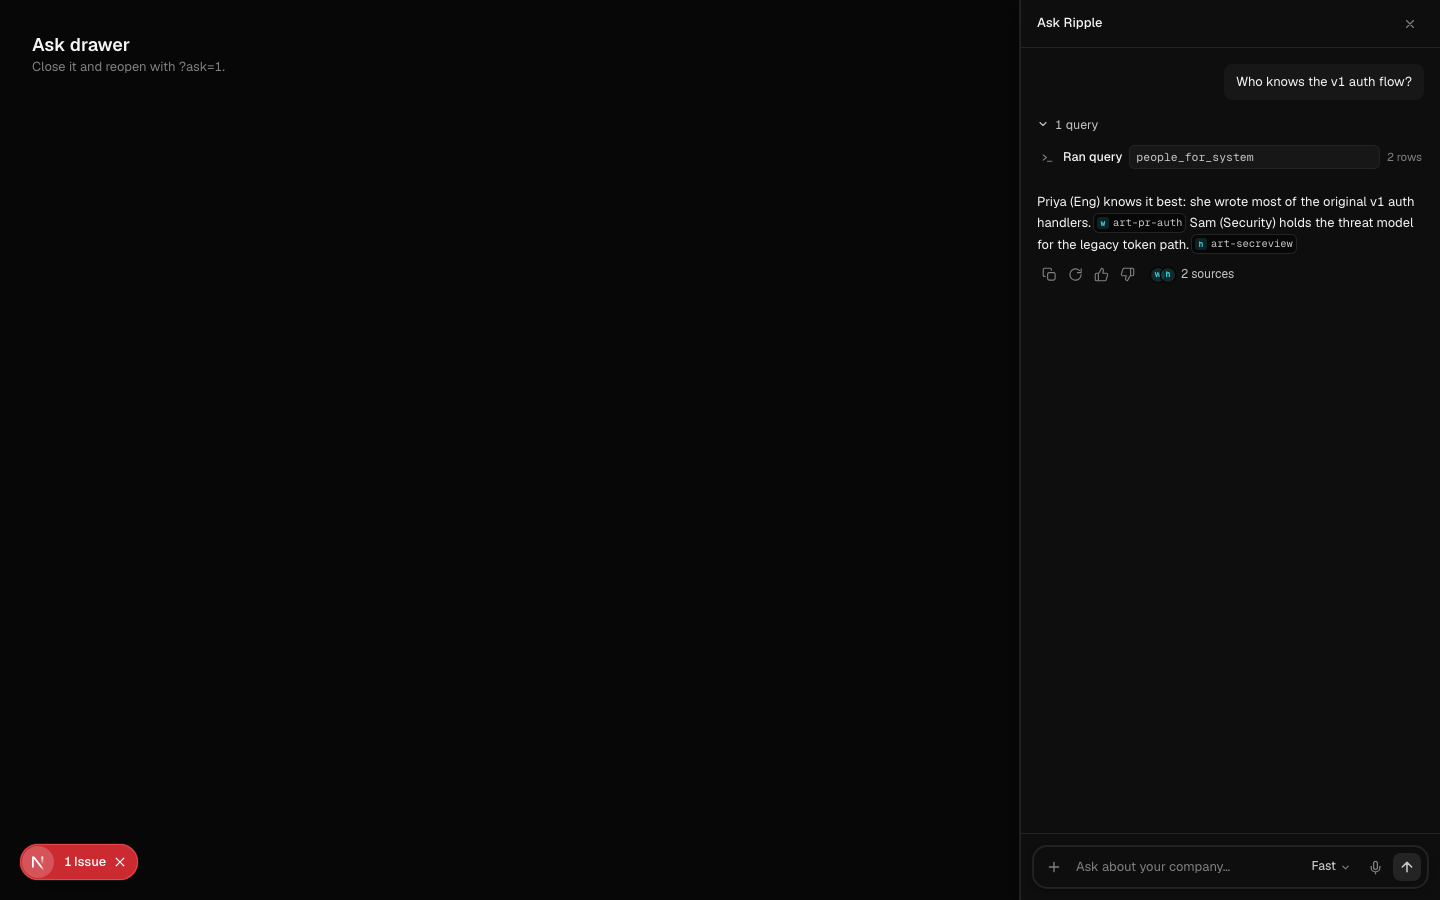
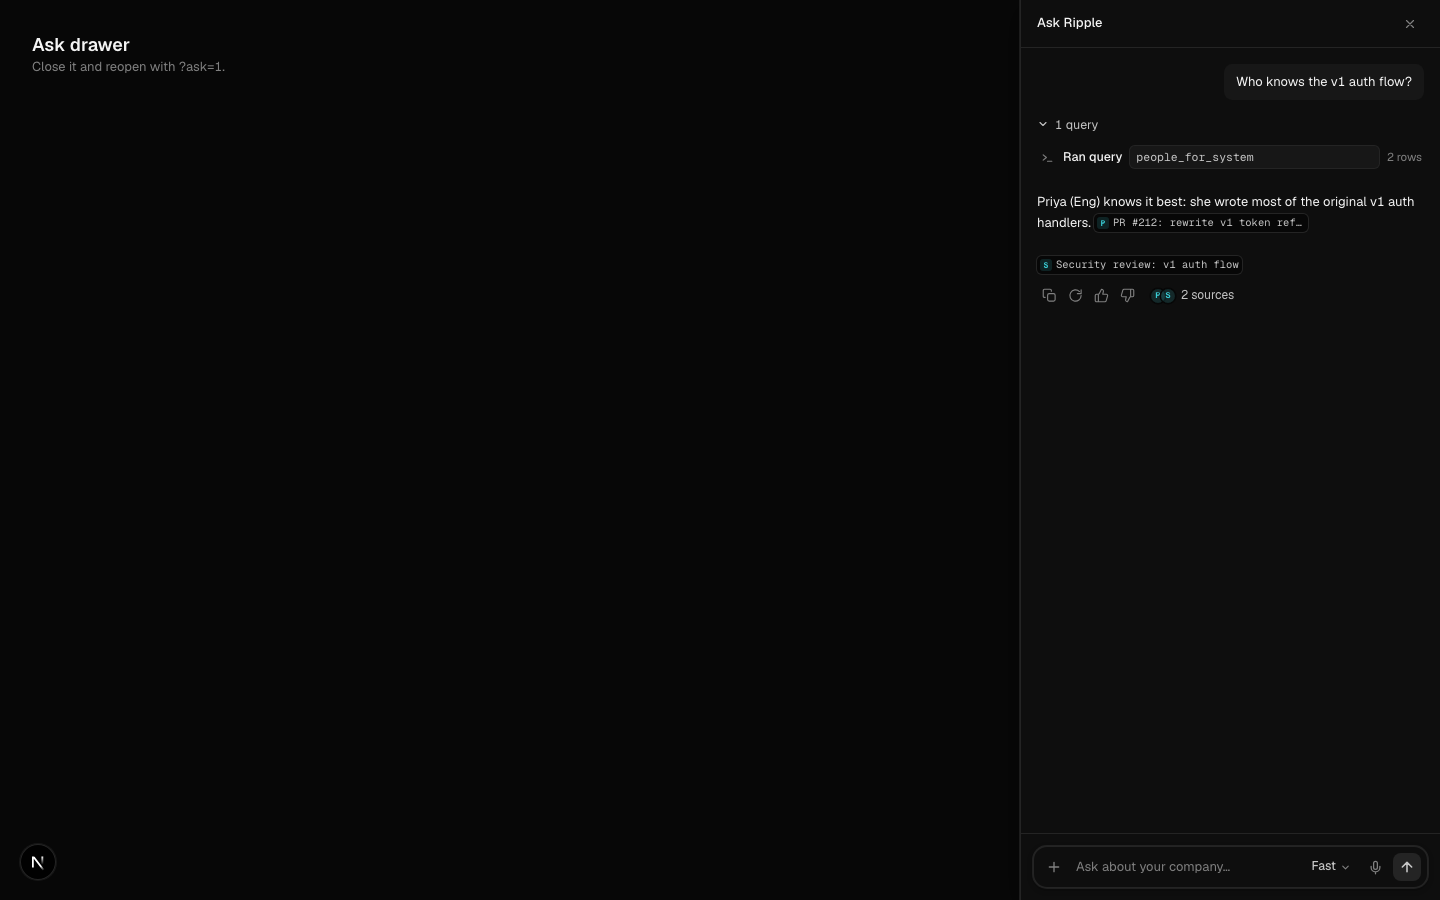
fix: Ask drawer source chips show titles, set ?src, fix hydration mismatch (#6)

Changed region(s): [[0.7188, 0.2178, 0.9062, 0.3422], [0.0, 0.9333, 0.0938, 0.9956]]

diff --git a/components/ask/AskDrawer.tsx b/components/ask/AskDrawer.tsx
@@ -1,14 +1,14 @@
 "use client";
 
 import { AnimatePresence, m } from "motion/react";
-import { parseAsStringLiteral, useQueryState } from "nuqs";
-import { Suspense, useCallback, useEffect, useRef, useState } from "react";
+import { parseAsString, parseAsStringLiteral, useQueryState } from "nuqs";
+import { Suspense, useCallback, useEffect, useRef, useState, useSyncExternalStore } from "react";
 import CodeBlock from "@/components/kit/beautifului/code-block";
 import PromptBar from "@/components/kit/beautifului/prompt-bar";
 import StreamingText, { type SourceRef, type Token } from "@/components/kit/beautifului/streaming-text";
 import { ThinkingLive } from "@/components/kit/beautifului/thinking";
 import ToolChips, { type ToolRowData } from "@/components/kit/beautifului/tool-chips";
-import { askStream } from "@/lib/api";
+import { askStream, getSource } from "@/lib/api";
 import { duration, ease, sec } from "@/lib/motion";
 import { parseStream } from "./parseStream";
 
@@ -36,7 +36,10 @@ const toolRow = (t: Tool): ToolRowData => ({
 
 function AskDrawerInner({ autoAsk }: { autoAsk?: string }) {
   const [ask, setAsk] = useQueryState("ask", parseAsStringLiteral(["1"] as const));
-  const open = ask === "1";
+  const [, setSrc] = useQueryState("src", parseAsString);
+  // false during SSR/hydration so the drawer never mismatches server HTML when ?ask=1 lands mid-hydration.
+  const hydrated = useSyncExternalStore(() => () => {}, () => true, () => false);
+  const open = hydrated && ask === "1";
   const close = useCallback(() => void setAsk(null), [setAsk]);
   const [turns, setTurns] = useState<Turn[]>([]);
   const [busy, setBusy] = useState(false);
@@ -57,6 +60,12 @@ function AskDrawerInner({ autoAsk }: { autoAsk?: string }) {
     try {
       for await (const e of parseStream(askStream(q))) {
         await sleep(160);
+        const refs = e.type === "citation"
+          ? await Promise.all(e.sources.map(async (s): Promise<SourceRef> => {
+              const title = await getSource(s.artifactId).then((a) => a.title, () => s.artifactId);
+              return { name: title, domain: title, title: `${title} (${s.artifactId})`, onClick: () => void setSrc(s.artifactId) };
+            }))
+          : [];
         setTurns((ts) => {
           const t = ts[ts.length - 1];
           let next = t;
@@ -66,11 +75,6 @@ function AskDrawerInner({ autoAsk }: { autoAsk?: string }) {
           else if (e.type === "text_delta")
             next = { ...t, tokens: [...t.tokens, ...e.text.split(" ").filter(Boolean).map((text) => ({ text }))] };
           else if (e.type === "citation") {
-            const refs = e.sources.map((s): SourceRef => ({
-              name: s.quote,
-              domain: s.artifactId,
-              onClick: () => console.log("open source", s.artifactId),
-            }));
             next = { ...t, tokens: [...t.tokens, ...refs.map((cite) => ({ text: "", cite }))], sources: [...t.sources, ...refs] };
           } else if (e.type === "done") next = { ...t, done: true };
           return [...ts.slice(0, -1), next];
@@ -82,7 +86,7 @@ function AskDrawerInner({ autoAsk }: { autoAsk?: string }) {
       update((t) => ({ ...t, done: true }));
       setBusy(false);
     }
-  }, [busy]);
+  }, [busy, setSrc]);
 
   // Demo only: auto-submit once the drawer is open.
   useEffect(() => {

diff --git a/components/kit/beautifului/streaming-text.tsx b/components/kit/beautifului/streaming-text.tsx
@@ -14,7 +14,7 @@ import { useEffect, useState } from "react";
 const WORD_MS = 55;
 const HOLD_MS = 3400;
 
-export type SourceRef = { name: string; domain: string; href?: string; onClick?: () => void };
+export type SourceRef = { name: string; domain: string; /** Full label for title/aria when `domain` is a short display form. */ title?: string; href?: string; onClick?: () => void };
 export type Token = { text: string; cite?: SourceRef };
 
 const SOURCES = [
@@ -45,6 +45,8 @@ function SourceChip({ source }: { source: SourceRef }) {
       href={source.href ?? "#"}
       target="_blank"
       rel="noreferrer"
+      title={source.title}
+      aria-label={source.title}
       onClick={(e) => {
         if (source.onClick) {
           e.preventDefault();
@@ -57,7 +59,7 @@ function SourceChip({ source }: { source: SourceRef }) {
       style={{ animation: "pop-in 250ms cubic-bezier(0.23,1,0.32,1) both" }}
     >
       <span aria-hidden className="grid size-3 place-items-center rounded-[3px] bg-ripple-soft text-[8px] font-bold text-ripple">{source.name[0]}</span>
-      <span>{source.domain}</span>
+      <span className="max-w-48 truncate">{source.domain}</span>
     </a>
   );
 }
